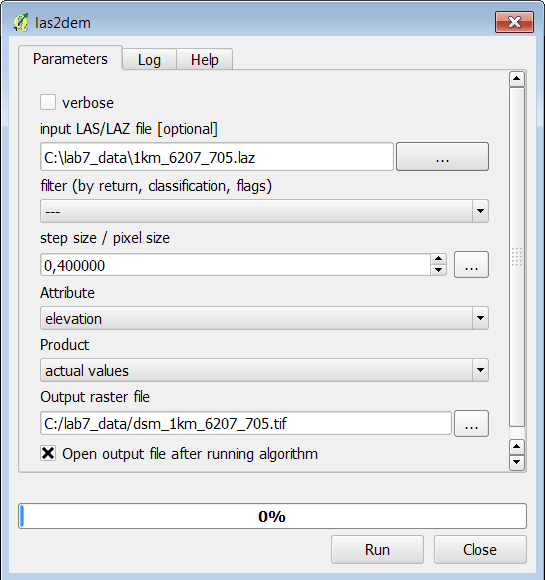
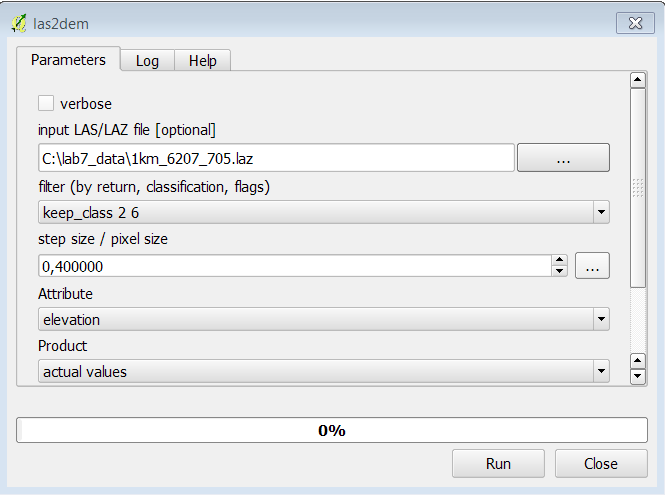
xx

Changed region(s): [[0.0, 0.0, 1.0, 1.0]]

diff --git a/module7lab/qgis2_6/Module 7 Lab.md b/module7lab/qgis2_6/Module 7 Lab.md
@@ -61,7 +61,14 @@ We recommend that you do not watch the videos before you attempt the tasks.  The
 
 
 ## Task 1 Explore data ##
+###Important about data storage
+Create a folder without space or special characters. Example **c:\lab7data\**.
+Insert the downloaded data in the folder. Some functions in **Processing** does not work if data name is with special characters.
 
+###Important for **Mac**
+For using GDAL and LAStools please install Wine - Follow the instruction on [http://rapidlasso.com/2014/10/04/using-lastools-on-mac-os-x-with-wine/](http://rapidlasso.com/2014/10/04/using-lastools-on-mac-os-x-with-wine/)
+
+ 
 In this task, you will use a digital elevation model to create several terrain related data sets: slope, aspect and hillshade. These terrain derived data sets can be important in site selection and other terrain based spatial analyses. 
 The data is downloaded from **The Danish Geodata Agency** - [http://download.kortforsyningen.dk](http://download.kortforsyningen.dk) 
 
@@ -369,46 +376,52 @@ There are several ways to create DSM (Digital Surface Model): In this Task we us
 The data set is from the Danish Geodata Agency. [http://download.kortforsyningen.dk/content/dhmpunktsky](http://download.kortforsyningen.dk/content/dhmpunktsky)
 At the Geoagency it is also possible to download a DSM 0,4 m Grid
 
-The file format we are using is LAS or LAZ. The tool are LAStools from Rapidlasso. This tool are incorporated in QGIS. But before using it, you have to download a ZIP file and install. Follow the instruction on [http://rapidlasso.com/2013/09/29/how-to-install-lastools-toolbox-in-qgis/](http://rapidlasso.com/2013/09/29/how-to-install-lastools-toolbox-in-qgis/ "How to install LAStools")
-
 Before working with the data in QGIS. Try to download [http://www.fugroviewer.com/](http://www.fugroviewer.com/). In this viewer you can filter, view n 3D, create a profile and measure.
 
 
 ![FugroViewer](figures_dk/fugroviewer.png "FugroViewer")
 
-###Create a DSM
+
+The file format we are using is LAS or LAZ. The tool are LAStools from Rapidlasso. This tool are incorporated in QGIS. But before using it, you have to download a ZIP file and install. Follow the instruction on [http://rapidlasso.com/2013/09/29/how-to-install-lastools-toolbox-in-qgis/](http://rapidlasso.com/2013/09/29/how-to-install-lastools-toolbox-in-qgis/ "How to install LAStools") Please go to Step 4 in the guide.
+
+The downloaded LAStools zipfil has to be unzipped and placed in a folder with no special characters or space as the data folder Example: **c:\lastools\**
+
+
+###Create a DTM with Buildings
+
+With the pointcloud data and LAStools you can filter the data and create both Raster and Shape files. For filtering the points by the Classification you must know the values. In the figure you can see the values shown in FugroViewer
+![Classification Values](figures_dk/classification.png "Classification Values")
+
+In this task you are going to create a raster file with terrain and buildings.
+Find the values for buildings and ground in the  figure.
+
 
 1. In Processing Toolbox open the folder for **Tools for LiDAR data** open the folder **LAStools**
 2. Double click on **lastoDEM**
 3. Input LAS/LAZ file **\1km_6207_705.laz**
-4. stepsize /pixel size **0,4**. (Same size as the DTM we use)
-5. Attribute **elevation**
-6. Product **actual values**
-7. Output rasterfile **\dsm_1km_6207_705.tif**
-8. Click **Run**
-9. Click **Close** - Wait untill the Algorithm has finished
-10. Rename the layer from **Output Raster file** to **dsm_1km_6207_705**
+4. Filter by **keep_class 2 6**
+5. stepsize /pixel size **0,4**
+6. Attribute **elevation**
+7. Product **actual values**
+8. Output rasterfile **\building_dtm_1km_6207_705.tif**
+9. Click **Run**
+10. Click **Close** - Wait untill the Algorithm has finished
+11. Rename the layer from **Output Raster file** to **building_dtm_1km_6207_705**
 
 There are diagonal lines in the image - this is a watermark from rapidlasso. For work without watermarks you have to buy a licence.
 
 Try the **Profile tool** to see the data sets from another angle. You can now read the tree height, but it is difficult. Later you are going to calculate on both rasterfiles and extract the actual height.
 
-Remove the layer
-
 ![las2DEM](figures_dk/las2dem.png "las2DEM")
 
 ![DSM](figures_dk/dsm_from_point.png "DSM")
 
-### Extracting buildings as Shape
 
-With the pointcloud data and LAStools you can filter the data and create Shape files.
 
 In the next task you are going to create footprints of the buildings as a Shape file.
-For filtering the points by the Classification you must know the values. In the figure you can see the values shown in FugroViewer
-![Classification Values](figures_dk/classification.png "Classification Values")
+You need the values for **Building** This is **6**.
 
-You need the values for **Ground** and **Building** This is **2** and **6**.
-
+### Extracting buildings as Shape
 
 1. In Processing Toolbox open the folder for **Tools for LiDAR data** open the folder **LAStools**
 2. Double click on **lasboundry**
@@ -428,19 +441,19 @@ You need the values for **Ground** and **Building** This is **2** and **6**.
 
 
 ### Clip Raster with Vector
-In this task you are going to Clip the DSM (raster) layer with the Building (Shape) layer.
+In this task you are going to Clip the Building DTM (raster) layer with the Building (Shape) layer.
 
 1. In Processing Toolbox Search box type **Clip raster**>Choose **GDAL Clip Raster by mask layer**
-2. Input Layer **dsm_1km_6207_705.tif**
+2. Input Layer **Building_dtm_1km_6207_705.tif**
 3. Mask layer **building_1km_6207_705**
 4. Create and output Alpha band **X**
-4. Output File Click on **...** Filename **..\building_1km_6207_705.shp**
+4. Output File Click on **...** Filename **..\building_1km_6207_705.tif**
 5. Click **Run**
 6. Click **Close** - Wait untill the Algorithm has finished
-7. Rename the layer to **Building**
+7. Rename the layer to **Building_Raster**
 
 ### Slops ans Aspect for the Buildings
-Create two layers: Slope and Aspect for the buildings. These layers are later to be used for either Green roofs or Solar panels. 
+Create two layers: Slope and Aspect for the raster buildings. These layers are later to be used for either Green roofs or Solar panels. 
 
 ...** More text to come :-)**
 
